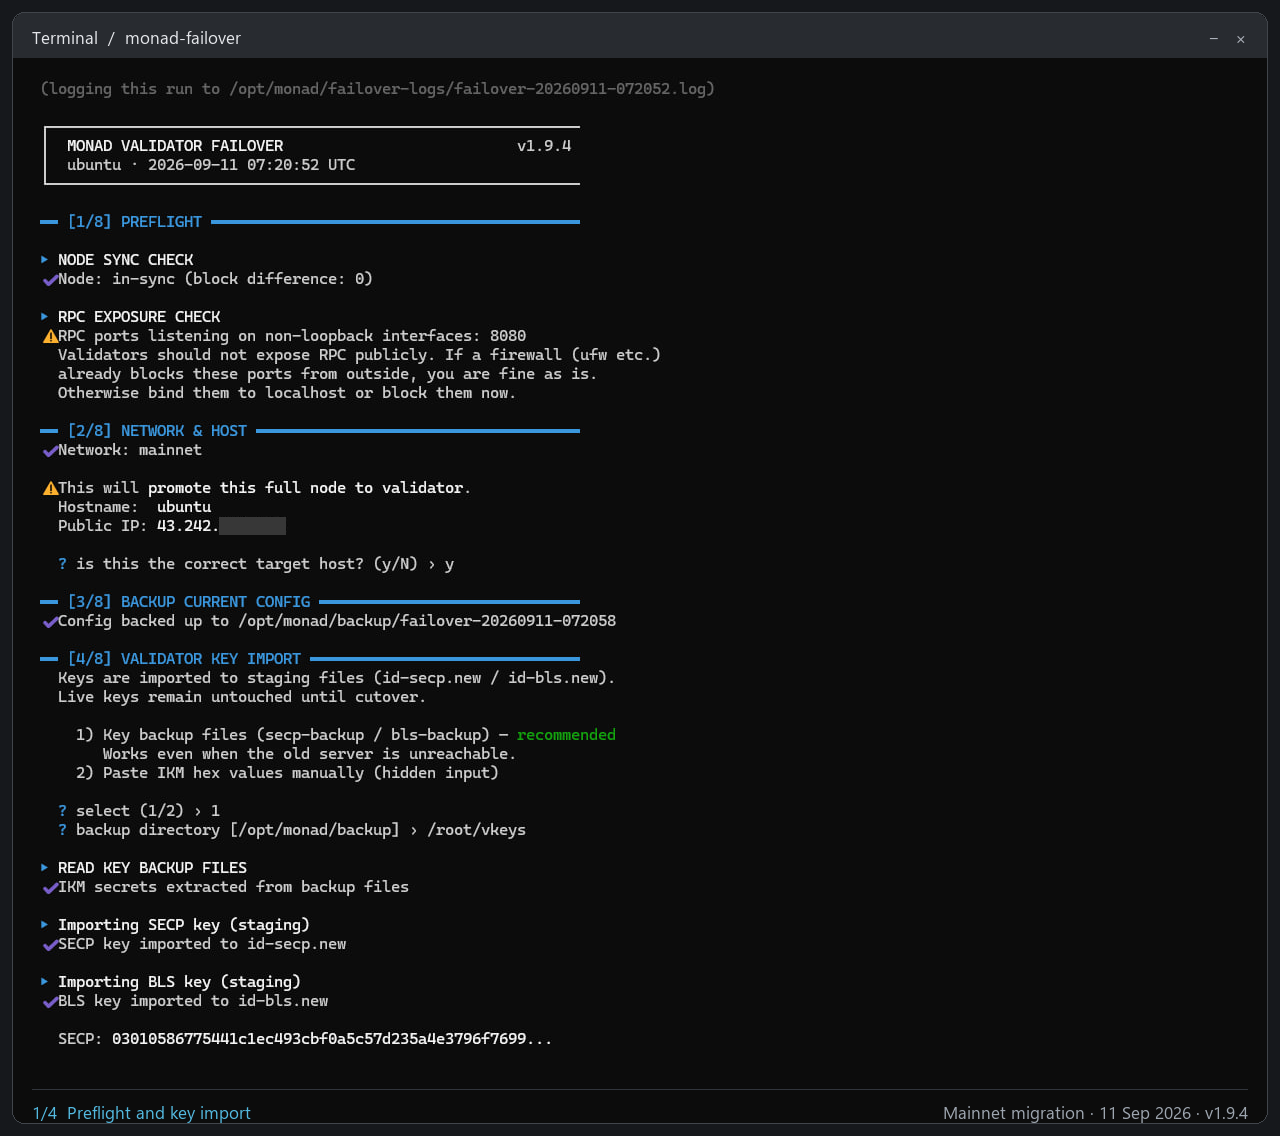
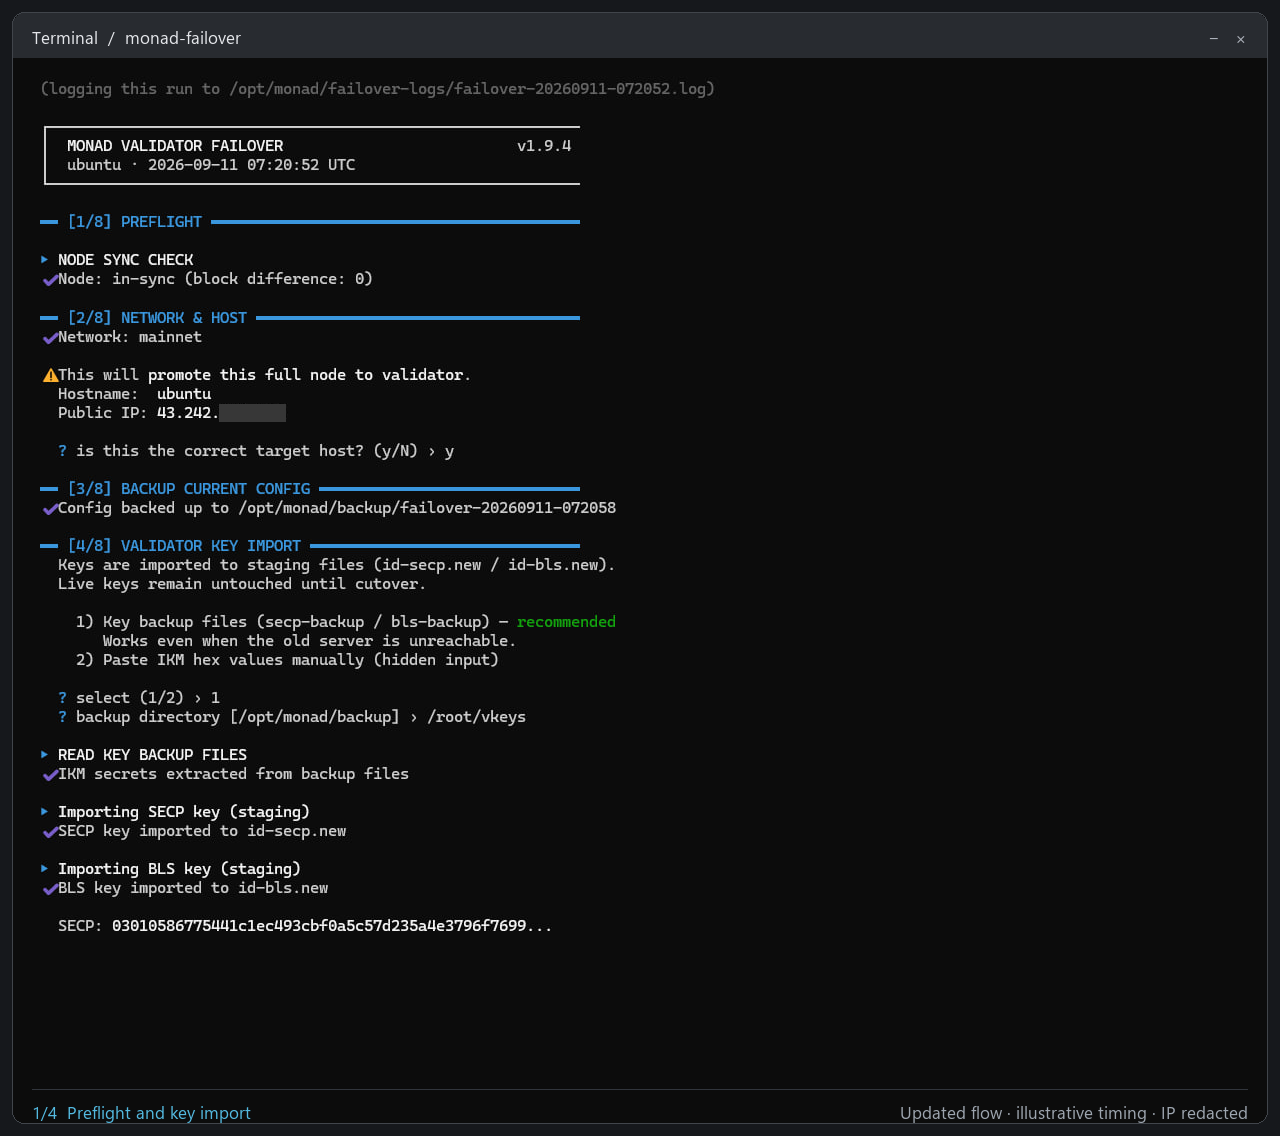
fix: consolidate port reminder and update still walkthrough

Changed region(s): [[0.0312, 0.2773, 0.5, 0.9243], [0.7188, 0.9551, 0.9688, 0.9859]]

diff --git a/README.md b/README.md
@@ -48,7 +48,7 @@ Run as root on the target full node:
 
 ```bash
 curl -fsSLO https://raw.githubusercontent.com/s0urledd/monad-failover-tool/v1.9.5/monad-failover.sh &&
-echo "2ecd3d01dc5e746adc8b9370b7595961dff5441b64c55434ac88bbf05c51e829  monad-failover.sh" | sha256sum -c - &&
+echo "3d478c3be39468608bb5a9b5b0e989c5cb512a3daaec365902a67d39ac3c05b3  monad-failover.sh" | sha256sum -c - &&
 install -m 755 monad-failover.sh /usr/local/bin/monad-failover
 ```
 
@@ -91,10 +91,11 @@ server. See [recovery](docs/recovery.md) if resume cannot finish.
 
 From the September 11, 2026 mainnet migration using v1.9.4. This is a sequence
 of screenshot excerpts, not a real-time recording; playback timing is illustrative.
-The server IP is partially redacted.
+The server IP is partially redacted. The still images below are adapted to
+show the updated RPC warning placement; the GIF retains the original flow.
 
 <details>
-<summary>View all four full-size screenshots</summary>
+<summary>View the updated terminal walkthrough</summary>
 
 ![Preflight and validator key import](docs/mainnet-run-1.png)
 
@@ -115,7 +116,8 @@ The tool targets standard P2P ports: TCP/UDP `8000` and authenticated UDP `8001`
 Custom P2P ports are not supported.
 
 - Keep the old validator offline after cutover. Never run both with the same keys.
-- Block public access to RPC and metrics ports. Allow trusted sources only.
+- Block public access to RPC and metrics ports (8080, 8081, 9143, etc.).
+  Allow trusted sources only.
 - Configure [VDP metrics](https://docs.monad.xyz/node-ops/validator-delegation-program)
   on the target and check its firewall.
 - Update downstream peers with the new name record. Transfer any custom

diff --git a/docs/validation.md b/docs/validation.md
@@ -66,11 +66,13 @@ comparison above applies to that version only.
 
 ## Walkthrough images
 
-The README images use the operator's original terminal screenshots, cropped
-and placed in matching frames with part of the IP covered. Terminal text was
-not retyped. The GIF replays those excerpts with illustrative timing; it is
-not a recording of elapsed migration time. The originals' symbol colors are
-preserved.
+The README still images are adapted from the operator's original terminal
+screenshots, with matching frames and part of the IP covered. The first image
+removes the old preflight RPC warning; the last shows the updated closing
+reminder. Added text uses glyphs taken from the terminal captures. These are
+an updated walkthrough, not an exact transcript of the historical run.
+The GIF is unchanged and replays the original excerpts with illustrative
+timing; it is not a recording of elapsed migration time.
 
 ## Signer compatibility
 
